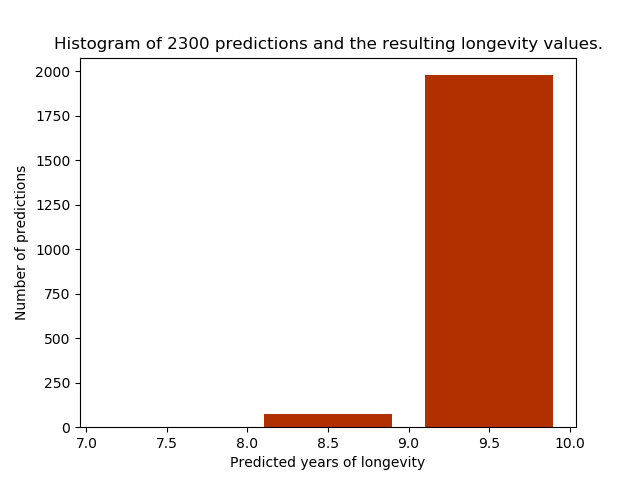
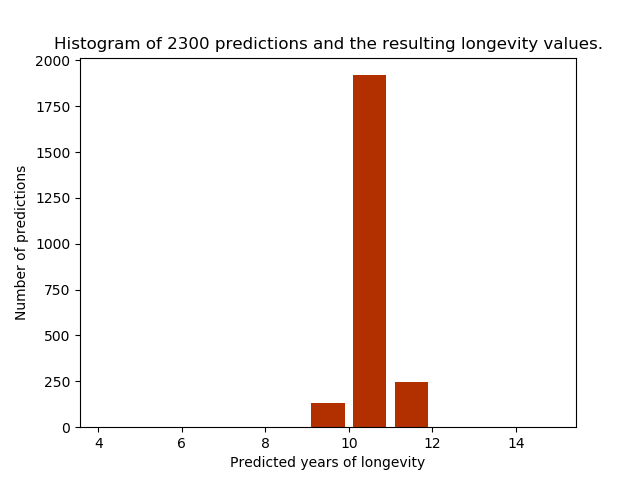
fixed minor visual bug, removed redundant/unused html, made histogram prettier for estimations with small variations

diff --git a/root/webinterface/templates/index.html b/root/webinterface/templates/index.html
@@ -14,9 +14,6 @@
     <body>
         <section id="gridwrapper">
             <section id='menu'>
-                <div id="menuHelp"  class="help">
-
-                </div>
                 <section id="title">
                     <h1>Hip Arthroplasty Longevity Estimation System</h1>
                     <p>Welcome!<br><br>This is a system designed to provide predictions of longevity in a hip arthroplasty implant.
@@ -36,11 +33,6 @@
             <section id="centercontent">
                 <section id="data" class="hideContent">
                     <section id="centerNav">
-                        <div id="navigationHelp" class="help">
-                            <p>The buttons on the top left and top right of the center panel are the navigation buttons.
-                                The left button takes you to the previous page (or step, if you will). The Right button
-                                takes you all the way back to the start, regardless of where you are in the process.</p>
-                        </div>
                         <div id="back" class="navigation">
                             <img id="backimg" src="../static/img/back.png">
                             Back
@@ -53,9 +45,6 @@
                     <h1 id="resultheader"></h1>
 
                     <section class="input">
-                        <div id="nextStepHelp"  class="help">
-                            <p></p>
-                        </div>
                         <button id="featurebtn" class="button optional"> ( Optional ) <br/> Select dataset features </button>
                         <button id="dt" class="button"> Run prediction </button>
                     </section>
@@ -65,12 +54,6 @@
                     <table id="results_table" class="hideContent"></table>
 
                     <section id="patientInfoForm" class="hideContent">
-                        <div id="infoFormHelp"  class="help">
-                            <p>This is the patient information form. The labels on the left hand side of the list detail
-                            what information is required, while the boxes on the right hand side are input fields. Click
-                            an input field to enter the information required - either you choose between two or more
-                            options in a small menu, or else you type in your information as a number.</p>
-                        </div>
                         <form action="/updatetarget">
                                 <div>
                                     <label for="case"> Has the implant been removed? </label>
@@ -172,17 +155,11 @@
                     </section>
 
                     <section id="featureWrapper" class="feature hideContent">
-                        <div id="featureHelp"  class="help">
-
-                        </div>
                         <ul id="features" class="feature"></ul>
                         <button type="button" id="saveFeatures" class="button feature"> Save </button>
                     </section>
 
                     <section id="graphFiller" class="hideContent">
-                        <div id="graphHelp"  class="help">
-
-                        </div>
                         <button id="moreInfoButton" class="button"> More information </button>
                         <table id="statsFiller"></table>
                         <div id="graphs"></div>
@@ -202,10 +179,6 @@
             <form action="/science">
                 <button id="scienceToggle" class="button guitoggle">Science</button>
             </form>
-
-            <section id="help">
-                <img id="helpButton" src="">
-            </section>
         </section>
     </body>
 </html>

diff --git a/root/webinterface/static/script/display.js b/root/webinterface/static/script/display.js
@@ -160,7 +160,7 @@ $(document).ready(function () {
         stopProcess();
         hideAllElements();
         clearTable();
-        $('#moreInfoButton').removeClass('buttonClicked');
+        $('#moreInfoButton').removeClass('buttonClicked').text('More information');
         start();
     });
 
@@ -176,9 +176,9 @@ $(document).ready(function () {
 
     $('#moreInfoButton').click(function() {
         if ($(this).hasClass('buttonClicked')) {
-            $(this).removeClass('buttonClicked');
+            $(this).removeClass('buttonClicked').text('More information');
         } else {
-            $(this).addClass('buttonClicked');
+            $(this).addClass('buttonClicked').text('Less information');
         }
         $('.graphImage, #statsFiller').slideToggle();
     });
@@ -300,9 +300,9 @@ var displayResults = function() {
         doneLoading();
         $('#title h1').text('Results');
         $('#title p').text('The center page displays the estimated longevity of the implant (in years). This ' +
-            'estimation is based on the values in the patient informaton form. A goodness-of-fit metric for the ' +
-            'estimation model is available by clicking the R2 button, more statistical information is available by ' +
-            'clicking the button below the estimation.');
+            'estimation is based on the values in the patient informaton form.').append('<br><br>More statistical ' +
+            'information about the predictions and the model estimating these predictions is available by clicking ' +
+            'the "More information" button below the result.');
         $('#results_table, #graphFiller, #graphs').fadeIn();
     } else {
         console.log('process terminated');

diff --git a/root/webinterface/modules/graph_factory.py b/root/webinterface/modules/graph_factory.py
@@ -54,7 +54,7 @@ def histogram_of_results(list_of_results, runs=1):
     plt.ylabel('Number of predictions')
     bins = range(-2, 20)
     if min(list_of_results) > -9999 and max(list_of_results) < 9999:
-        bins = range(int(min(list_of_results) - 1), int(max(list_of_results) + 1))
+        bins = range(int(min(list_of_results) - 5), int(max(list_of_results) + 5))
     else:
         if len(list(bins)) < 5:
             bins = range(-2, 6)
